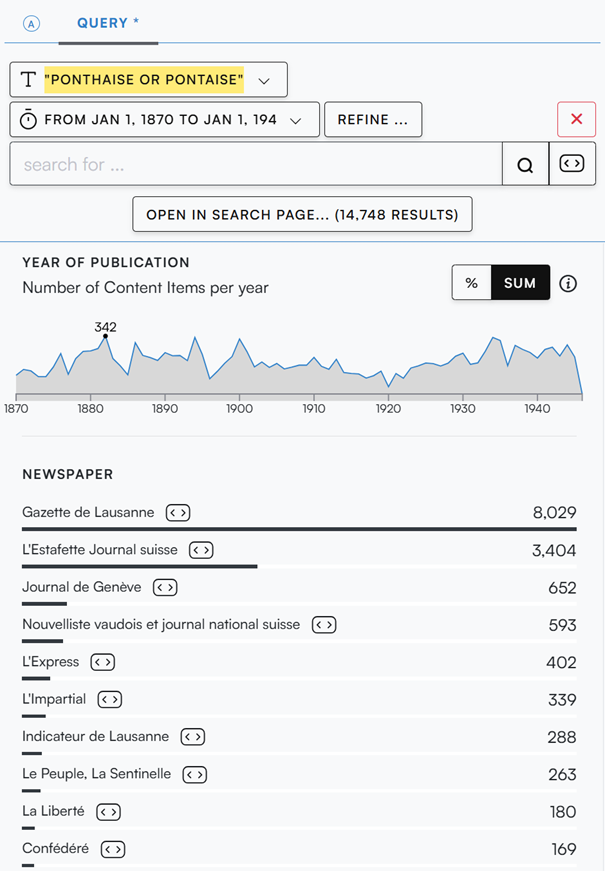
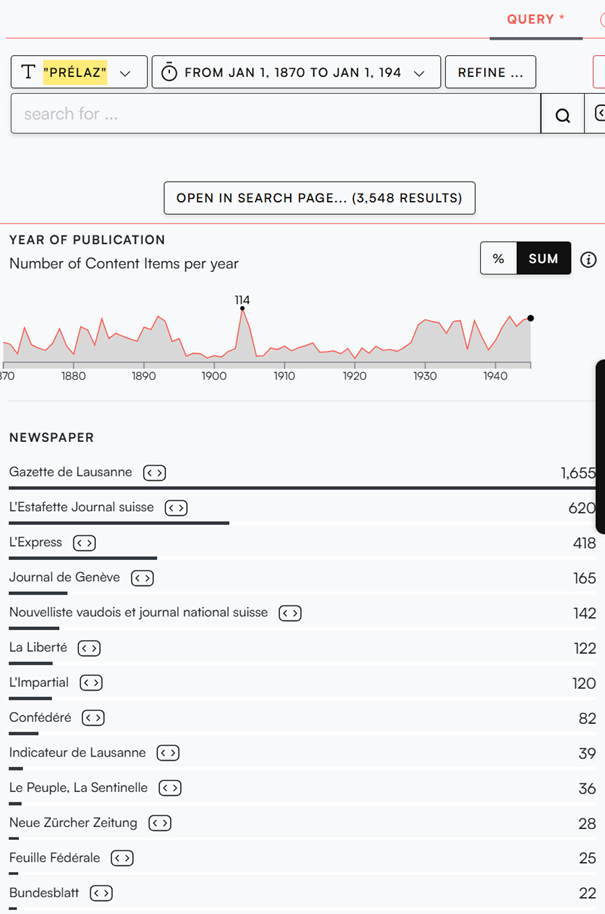
methodes update

Changed region(s): [[0.0, 0.0, 1.0, 1.0]]

diff --git a/src/site-lausanne/methodes-sources.md b/src/site-lausanne/methodes-sources.md
@@ -1,17 +1,93 @@
-# Methodes
+<style>
+    /* Justification et élargissement global des textes pour occuper toute la largeur */
+    h1, h2, h3, h4, p, li, ul, ol {
+    max-width: none !important;
+    text-align: justify;
+    text-justify: inter-word;
+    -webkit-hyphens: auto;
+    -ms-hyphens: auto;
+    hyphens: auto;
+    }
 
-## Presse
 
-Le site Impresso-project.ch a été utilisé pour étudier la presse lausannoise entre 1870 et 1945. L'étude s'est attardée sur le <em>La Gazette de Lausanne</em> ainsi que <em>L'Estafette</em>. La recherche s'est faite par mots-clefs "Ponthaise" ou "Pontaise" et "Prélaz" ou "Prelaz". Plus de 10'000 différentes coupures de presse ont été passées en revue et sélectionnées selon leur pertinence quant à la vie des quartiers. Les événements saillant ont permis de reconstruire une chronologie et de déduire des schémas similaires entre les deux quartiers.
+    .obs-container h1, 
+    .obs-container h2, 
+    .obs-container h3, 
+    .obs-container h4,
+    .timeline-card h4 {
+    font-family: Georgia, Cambria, "Times New Roman", Times, serif !important;
+    color: #1a1a1a !important;
+    letter-spacing: -0.01em;
+    }
 
-Cette approche est sensible à la qualité de l'OCR présent sur le site Impresso-project.ch, ainsi que biaisée car la presse ne relaie pas tous les événements historiques et que le rapport sur certains événements peuvent être influencés par l'avis de leur auteurs.
+    /* Style global du conteneur */
+    .obs-container {
+    font-family: system-ui, -apple-system, BlinkMacSystemFont, "Segoe UI", Roboto, Helvetica, Arial, sans-serif;
+    color: #24292e;
+    line-height: 1.6;
+    max-width: 1012px;
+    margin: 0 auto;
+    padding: 10px;
+    }
+    .obs-container h1 {
+    font-size: 2em;
+    border-bottom: 1px solid #eaecef;
+    padding-bottom: 0.3em;
+    margin-top: 24px;
+    margin-bottom: 16px;
+    font-weight: 600;
+    }
+    .obs-container h2 {
+    font-size: 1.5em;
+    border-bottom: 1px solid #eaecef;
+    padding-bottom: 0.3em;
+    margin-top: 32px;
+    margin-bottom: 16px;
+    font-weight: 600;
+    }
+    .obs-container h3 {
+    font-size: 1.25em;
+    margin-top: 24px;
+    margin-bottom: 12px;
+    font-weight: 600;
+    }
+    .obs-container h4 {
+    font-size: 1.1em;
+    margin-top: 20px;
+    margin-bottom: 8px;
+    font-weight: 600;
+    }
 
-![Pontaise_Impresso](images/Pontaise_Impresso.png)
-![Prelaz_Impresso](images/Prelaz_Impresso.png)
+</style>
 
-## Toponymie
+<div class="obs-container" lang="fr">
 
-## Bâti
+<h1>Méthodes</h1>
+
+<h2 id="Presse" tabindex="-1">Presse</h2>
+
+Le site [Impresso Project](https://impresso-project.ch/) a été utilisé pour étudier la presse lausannoise entre 1870 et 1945. L'étude s'est attardée sur le <em>La Gazette de Lausanne</em> ainsi que <em>L'Estafette</em>. La recherche s'est faite par mots-clefs "Ponthaise" ou "Pontaise" et "Prélaz" ou "Prelaz". Plus de 10'000 différentes coupures de presse ont été passées en revue et sélectionnées selon leur pertinence quant à la vie des quartiers. Les événements saillant ont permis de reconstruire une chronologie et de déduire des schémas similaires entre les deux quartiers.
+
+Cette approche est sensible à la qualité de l'OCR présent sur le site Impresso Project, ainsi que biaisée car la presse ne relaie pas tous les événements historiques et que le rapport sur certains événements peuvent être influencés par l'avis de leur auteurs.
+
+<div style="display: flex; gap: 20px; width: 100%; margin: 20px 0;">
+  
+  <div style="flex: 1; text-align: center;">
+    <img src="images/Pontaise_Impresso.png" alt="Pontaise Impresso" style="width: 80%; max-width: 80%; height: auto; display: inline-block;">
+    <p style="margin-top: 8px; font-style: italic; text-align: center !important;">Coupures de presse "Pontaise" (1870-1945)</p>
+  </div>
+
+  <div style="flex: 1; text-align: center;">
+    <img src="images/Prelaz_Impresso.png" alt="Prelaz Impresso" style="width: 80%; max-width: 80%; height: auto; display: inline-block;">
+    <p style="margin-top: 8px; font-style: italic; text-align: center !important;">Coupures de presse "Prélaz" (1870-1945)</p>
+  </div>
+
+</div>
+
+
+<h2 id="Toponymie" tabindex="-1">Toponymie</h2>
+
+<h2 id="Bâti" tabindex="-1">Bâti</h2>
 
 Les cartes Siegfried donnent la base de l'analyse du bâti. Cette série de cartes couvre précisément la période concernée, de 1873 à 1945. Vu que les quartiers de la Pontaise et Prélaz ont très peu de développement avant 1880, il n'y a pas trop d'intérêt à analyser des cartes plus anciennes. Les cartes siegfried ont été géoréférencées et vectorisées par le département de digital humanities. 
 
@@ -23,13 +99,13 @@ Le but est de montrer l'évolution du bâti d’une manière spatio-temporelle. 
 Ce n’est pas une méthode exacte pour déterminer l'évolution du bâti car l'évaluation a été faite d’une manière subjective. Cependant, ça donne une idée d'évolution.
 
 
-## Métiers
+<h2 id="Métiers" tabindex="-1">Métiers</h2>
 
-Les Annuaires commerciaux déjà passé par l'OCR, offrent une vue globale sur Lausanne. Pour restreindre notre vue au quartiers choisi, la toponymie est utiliser pour seulement rassembler des entrées avec address similaires au lieux relevés. Malheureusement, ceci implique la perte d'une fraction des données totales. Une autre methodologie imaginée était de geolocaliser toutes les entrées et prendre seulement celles a l'interieur de nos quartiers mais tous les problems liées a la geolocalisation seraient excerbés par des ordres de magnitudes.
+Les Annuaires commerciaux, qui ont déjà été passés par OCR, offrent une vue globale sur Lausanne. Pour restreindre notre vue aux quartiers choisis, la toponymie est utilisée pour rassembler des uniquement les entrées avec des addresses similaires aux lieux relevés. Malheureusement, cela implique la perte d'une fraction des données totales. Une autre methodologie imaginée était de geolocaliser toutes les entrées et prendre seulement celles a l'intérieur de nos quartiers; or tous les problèmes liées à la géolocalisation seraient exacerbés par des ordres de magnitudes.
 
-Comme les erreurs d'OCR sont très communes, un calcul de similarité doit être fait. La distance Levenshtein a été utilisé. Une fois les entrées réduites, l'address sansitiser est extraite en prennant le toponyme matché et le combiner avec un numéro de la ligne d'address. De là, Nominatim peut prendre ces addresses et donner des coordonnées afin de geolocaliser l'entrée de l'Annuaire. 
+Comme les erreurs d'OCR sont très communes, un calcul de similarité doit être fait. La distance de Levenshtein a été utilisée. Une fois les entrées réduites, l'addresse sansitisée est extraite en prennant le toponyme matché et le combine avec un numéro de la ligne d'addresse. De là, Nominatim peut prendre ces addresses et donner des coordonnées afin de géolocaliser l'entrée de l'Annuaire. 
 
-## Iconographie
+<h2 id="Iconographie" tabindex="-1">Iconographie</h2>
 
 La source de l'iconographie de Lausanne est le Musée historique de Lausanne. Les images sont géolocalisées. Cela permet de filtrer les images dans les secteurs administratifs de la Pontaise et de Prélaz entre 1845 et 1951. Nous avons ajouté un buffer de 100 mètres pour inclure des endroits importants comme la caserne qui se situent juste en dehors du secteur. L’iconographie de tout Lausane peut se voir sur le site [icon-lausanne](https://icono-lausanne.github.io/). Ces images sont aussi intégrées à la [Time Atlas](https://timeatlas.eu/), qui contient une iconographie plus globale.  
 
@@ -37,7 +113,25 @@ La source de l'iconographie de Lausanne est le Musée historique de Lausanne. Le
 
 ### Sources
 
-* **Schnetzler, André.** *Enquête sur les conditions du logement : Année 1894*, Lausanne, 1896 (accompagné du *Supplément*, 1899).
+#### Sources cartographiques
+
+* **EPFL Cours HUM-450 & HUM-454**, “Diverses cartes de Lausanne”, Lausanne, 1870-1951.
+
+#### Sources statistiques et administratives
+
+* Annuaires Commerciaux officiels de la Ville de Lausanne,  éditions 1885,  1901,  1923,  1951.
+* **Schnetzler, André**, *Enquête sur les conditions du logement : Année 1894*, Lausanne, Charles Viret-Genton, 1896. 
+[+ Supplément, 1899].
+
+#### Presse et chroniques locales
+
+* *La Gazette de Lausanne*, quotidien lausannois, 1870-1945.
+* *L’Estafette*, quotidien lausannois, 1870-1895.
+
+#### Sources iconographiques
+
+* Dépôt iconographique du Musée historique de Lausanne.
+
 
 ### Littérature secondaire
 
@@ -52,10 +146,12 @@ La source de l'iconographie de Lausanne est le Musée historique de Lausanne. Le
 * **Saunier, Pierre-Yves.** « La ville en quartiers : découpages de la ville en histoire urbaine », *Genèses*, n° 15, 1994, p. 103-114.
 * **Topalov, Christian.** « Les divisions de la ville : une approche par les mots », dans Christian Topalov (dir.), *Les divisions de la ville*, Éditions UNESCO, 2002, p. 1-5.
 
-### Études de cas
+#### Études de cas
 
 * **Bourillon, Florence, et al. (éd.).** *Du clos Saint-Lazare à la gare du Nord*, Presses universitaires de Rennes, Comité d’histoire de la ville de Paris, 2018. DOI : [10.4000/books.pur.174021](https://doi.org/10.4000/books.pur.174021).
 * **Cantrelle, Sylvie, Corinne Goy et Claudine Munier.** *Histoire d’un quartier de Montbéliard (Doubs) : Le bourg Saint-Martin (XIIIe-XXe s.)*, Paris, Éditions de la Maison des sciences de l’homme, vol. 83, 2000. OpenEdition : [editionsmsh/46748](https://books.openedition.org/editionsmsh/46748).
 * **Joffre, Pierre.** « Un autre XVIIIe. Socio-histoire d’un micro-quartier parisien, de 1880 à nos jours », *L’atelier du Centre de recherches historiques*, 2024. DOI : [10.4000/130f0](https://doi.org/10.4000/130f0).
 * **Jacquot, Olivier.** [Cycle de séminaires] projet Richelieu. Histoire du quartier : « Documenter l’histoire urbaine, architecturale, sociale et culturelle du quartier Richelieu (1750-1950) », *Carnet de recherche*. DOI : [10.58079/m3o2](https://doi.org/10.58079/m3o2).
 * **Vidal, Frédéric.** *Les habitants d’Alcântara : Histoire sociale d’un quartier de Lisbonne au début du 20e*, Presses universitaires du Septentrion, 2006. OpenEdition : [septentrion/56412](https://books.openedition.org/septentrion/56412).
+
+</div>
